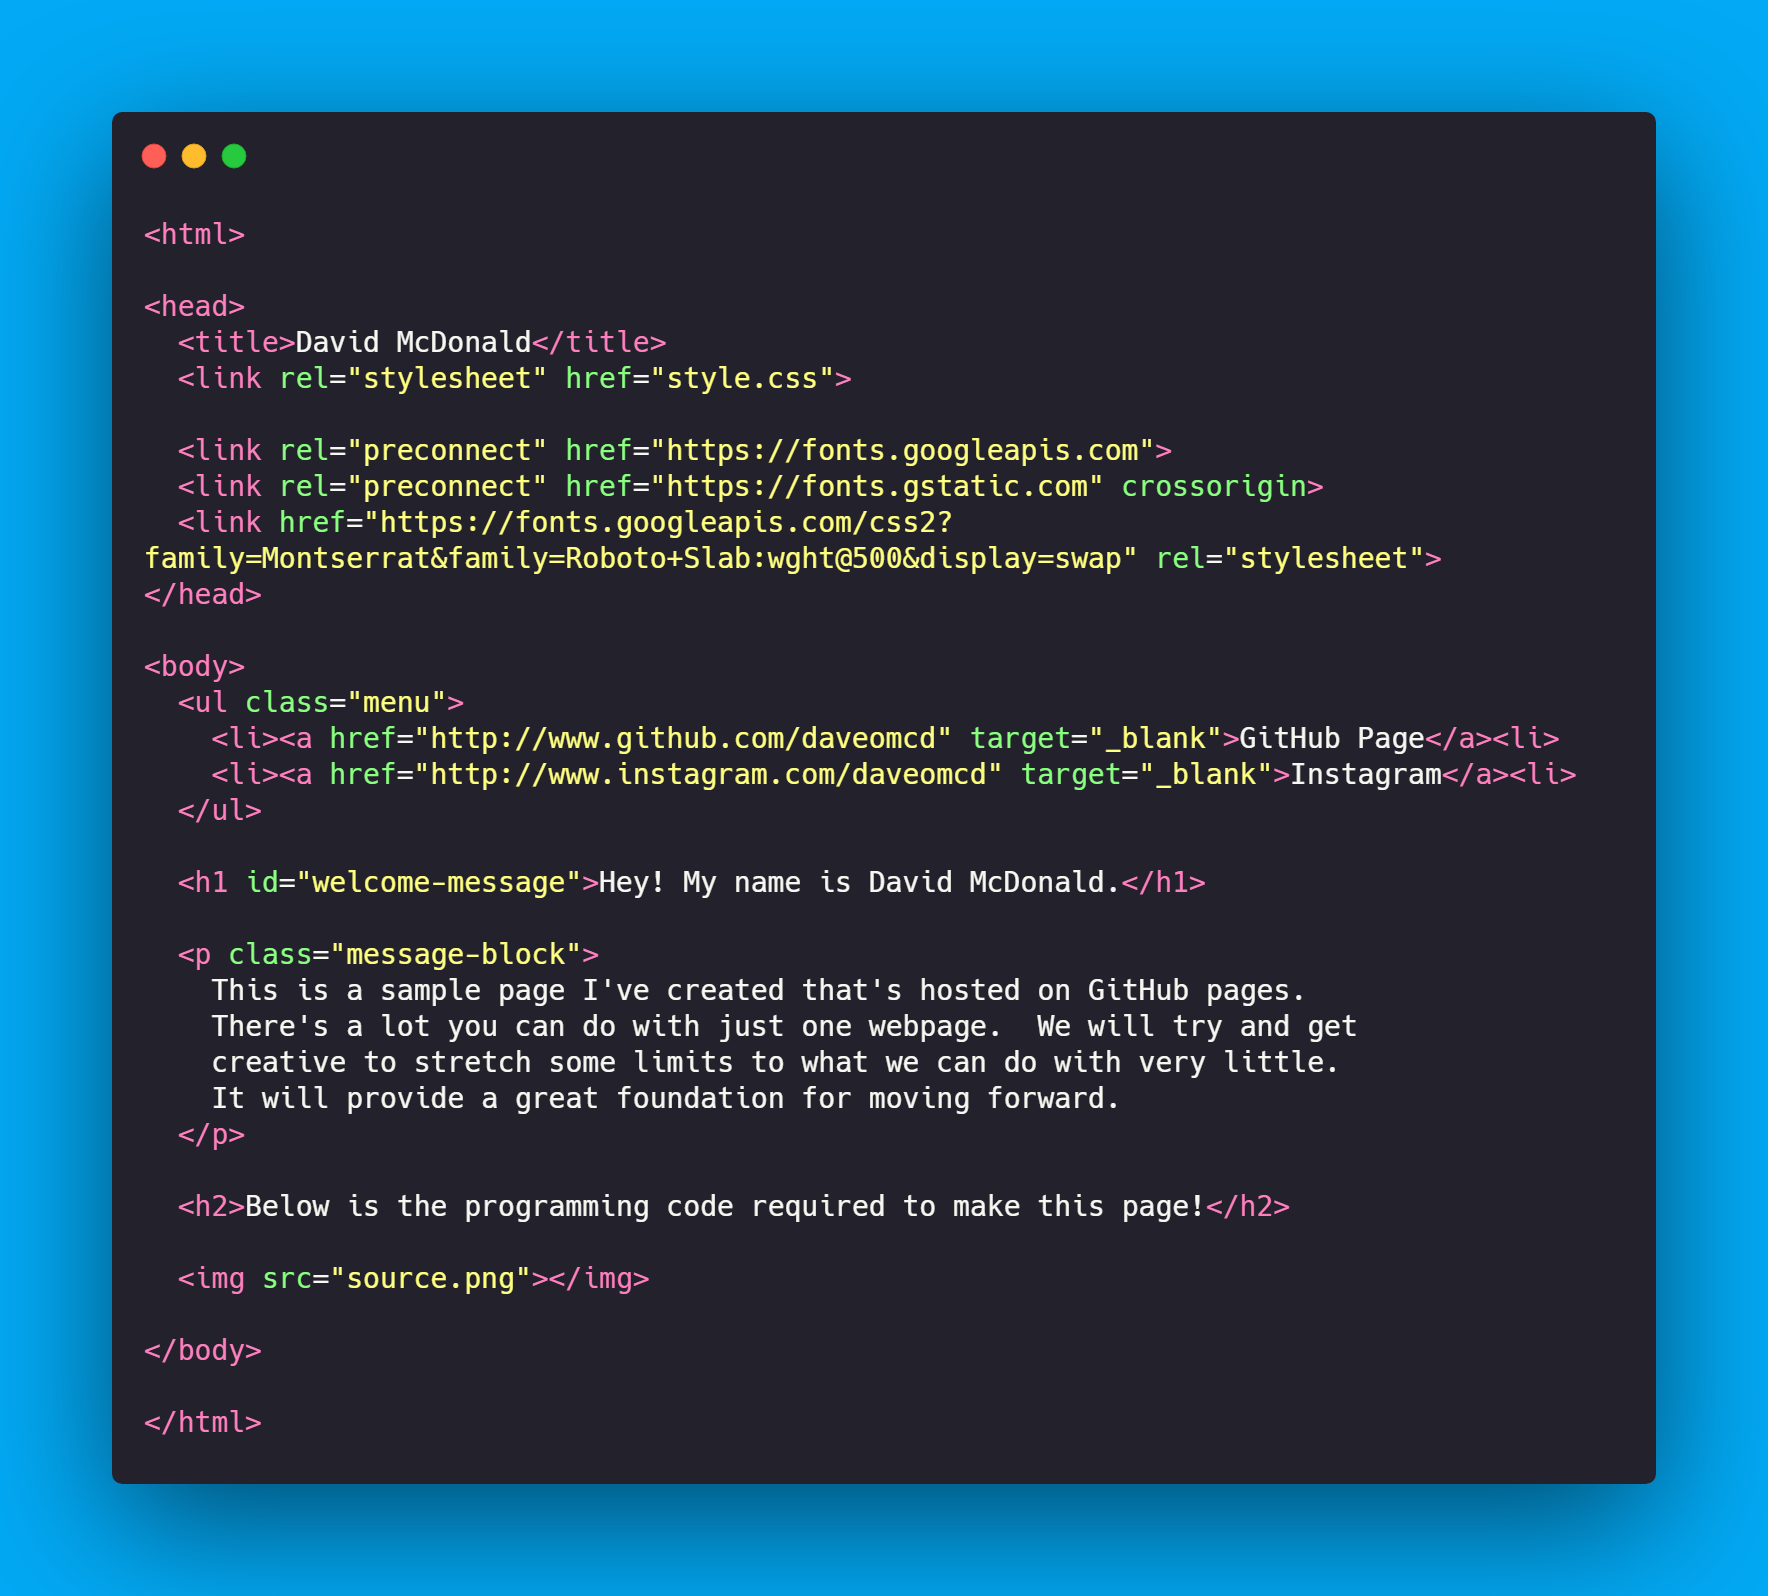
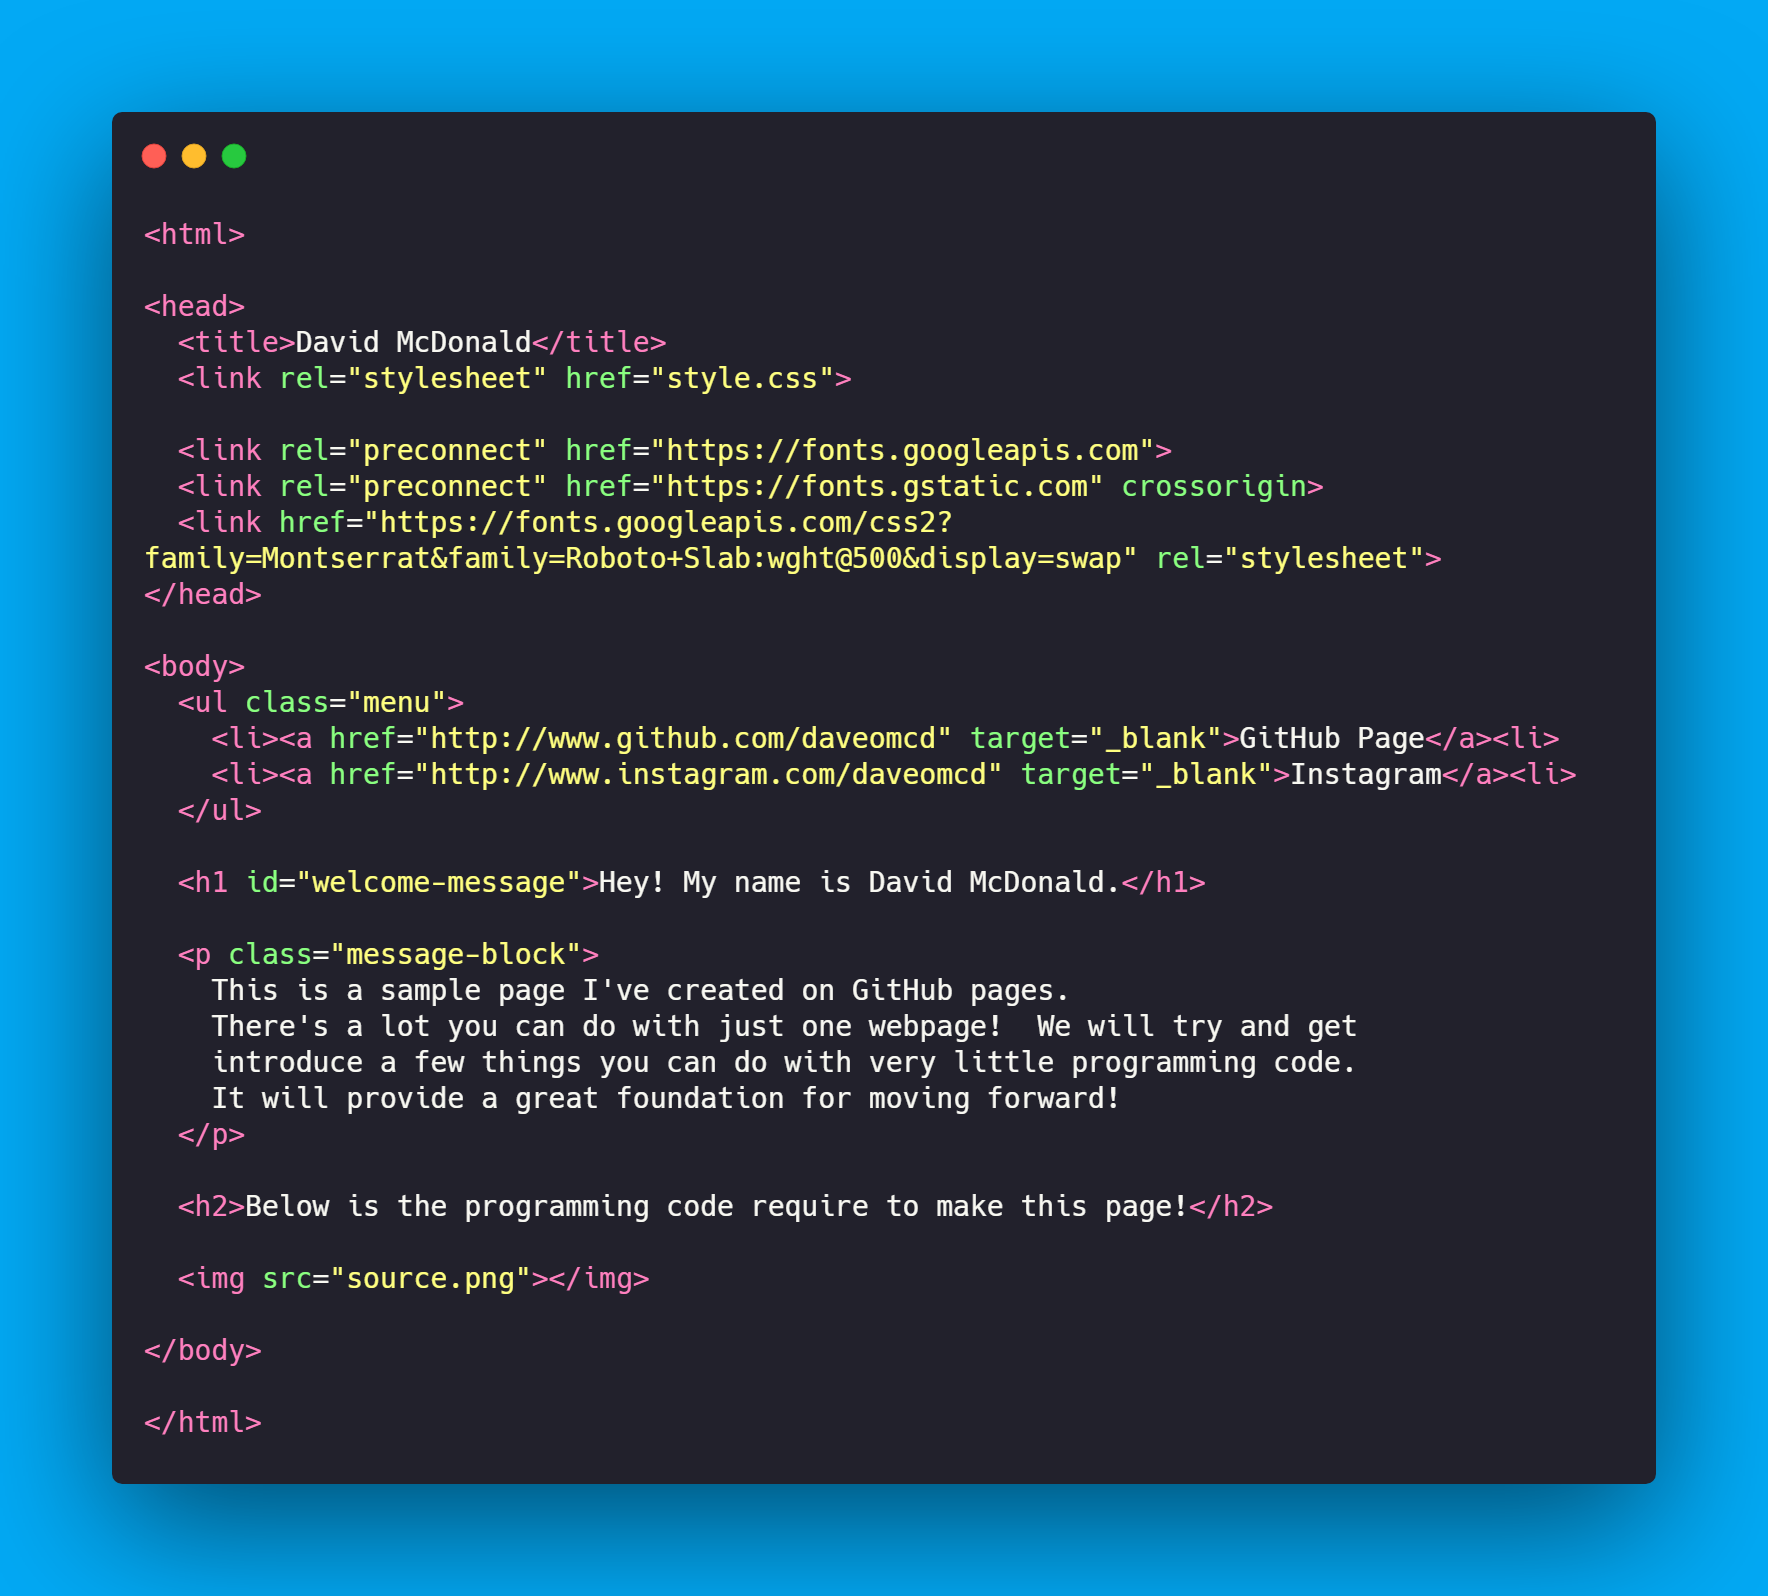
changed message and source image to reflect changes

Changed region(s): [[0.1244, 0.614, 0.7466, 0.6754], [0.4977, 0.7368, 0.7155, 0.7675]]

diff --git a/index.html b/index.html
@@ -18,10 +18,10 @@
   <h1 id="welcome-message">Hey! My name is David McDonald.</h1>
 
   <p class="message-block">
-    This is a sample page I've created that's hosted on GitHub pages.  
-    There's a lot you can do with just one webpage.  We will try and get
-    creative to stretch some limits to what we can do with very little.  
-    It will provide a great foundation for moving forward.
+    This is a sample page I've created on GitHub pages.  
+    There's a lot you can do with just one webpage!  We will try and get
+    introduce a few things you can do with very little programming code.  
+    It will provide a great foundation for moving forward!
   </p>
 
   <h2>Below is the programming code require to make this page!</h2>
